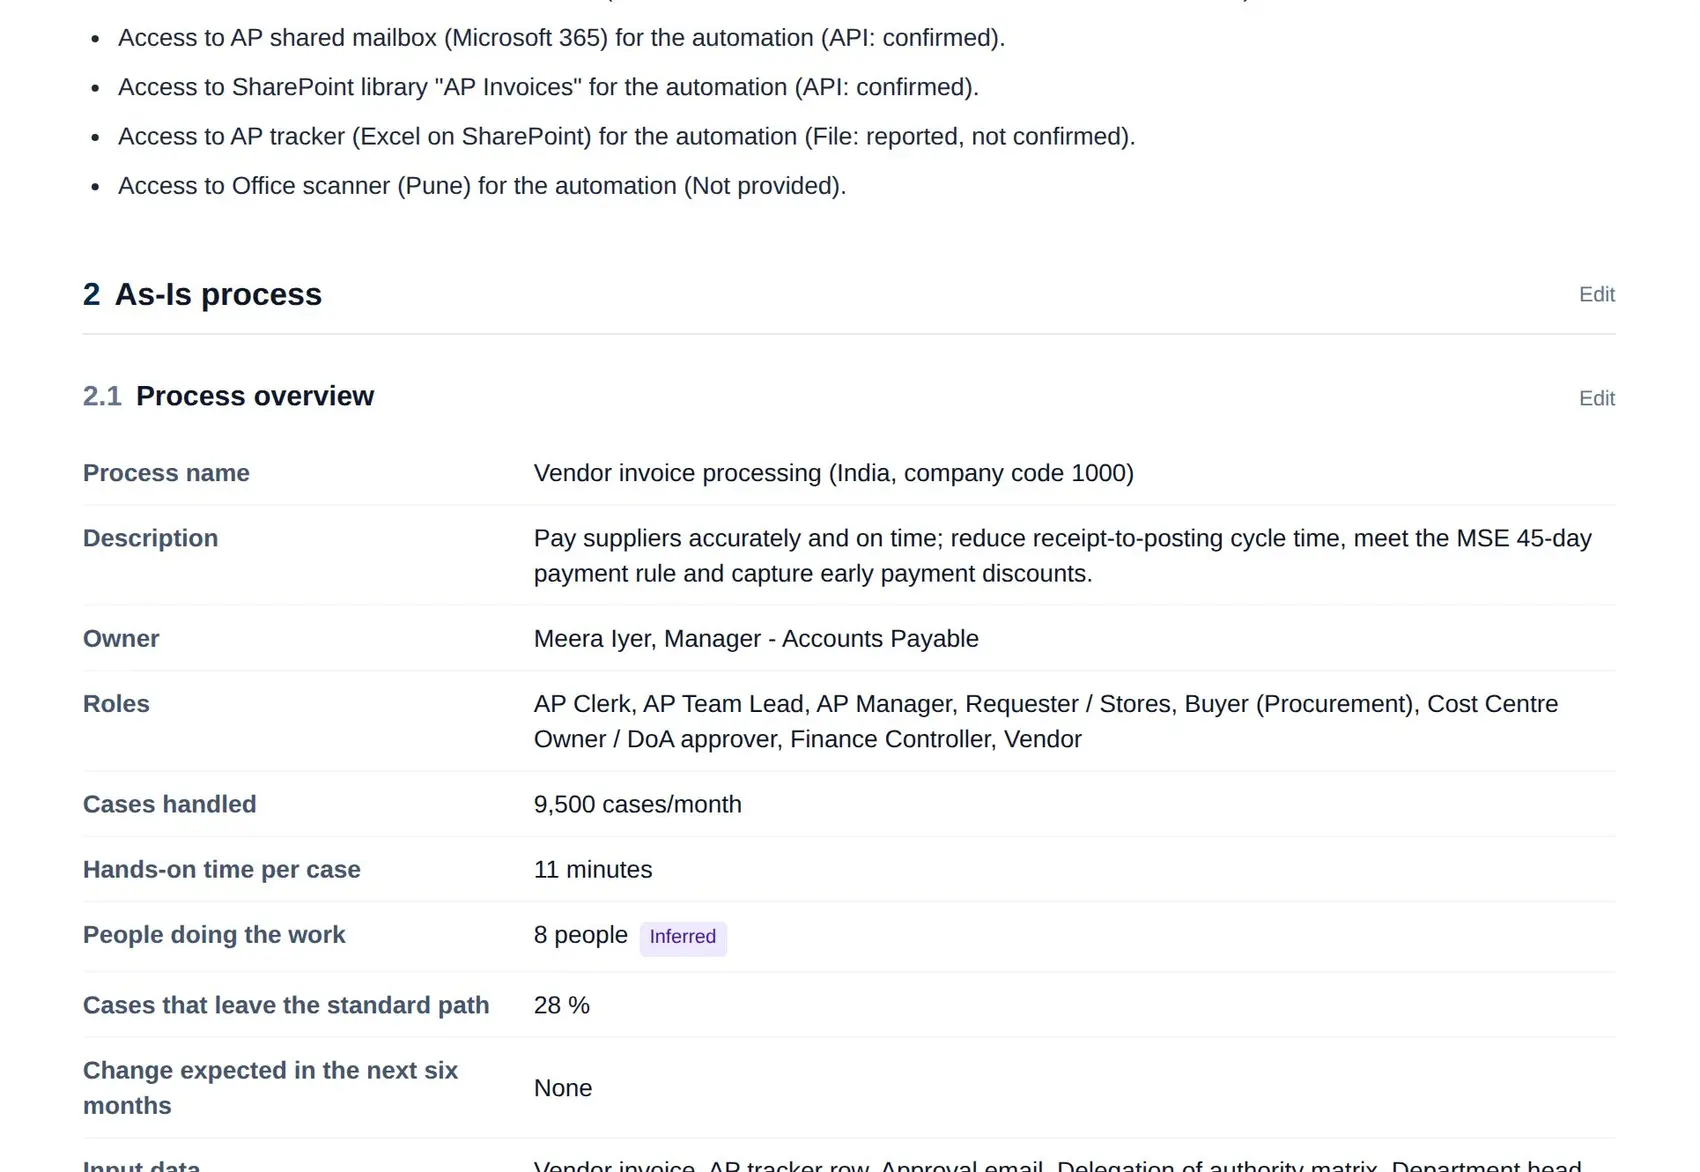
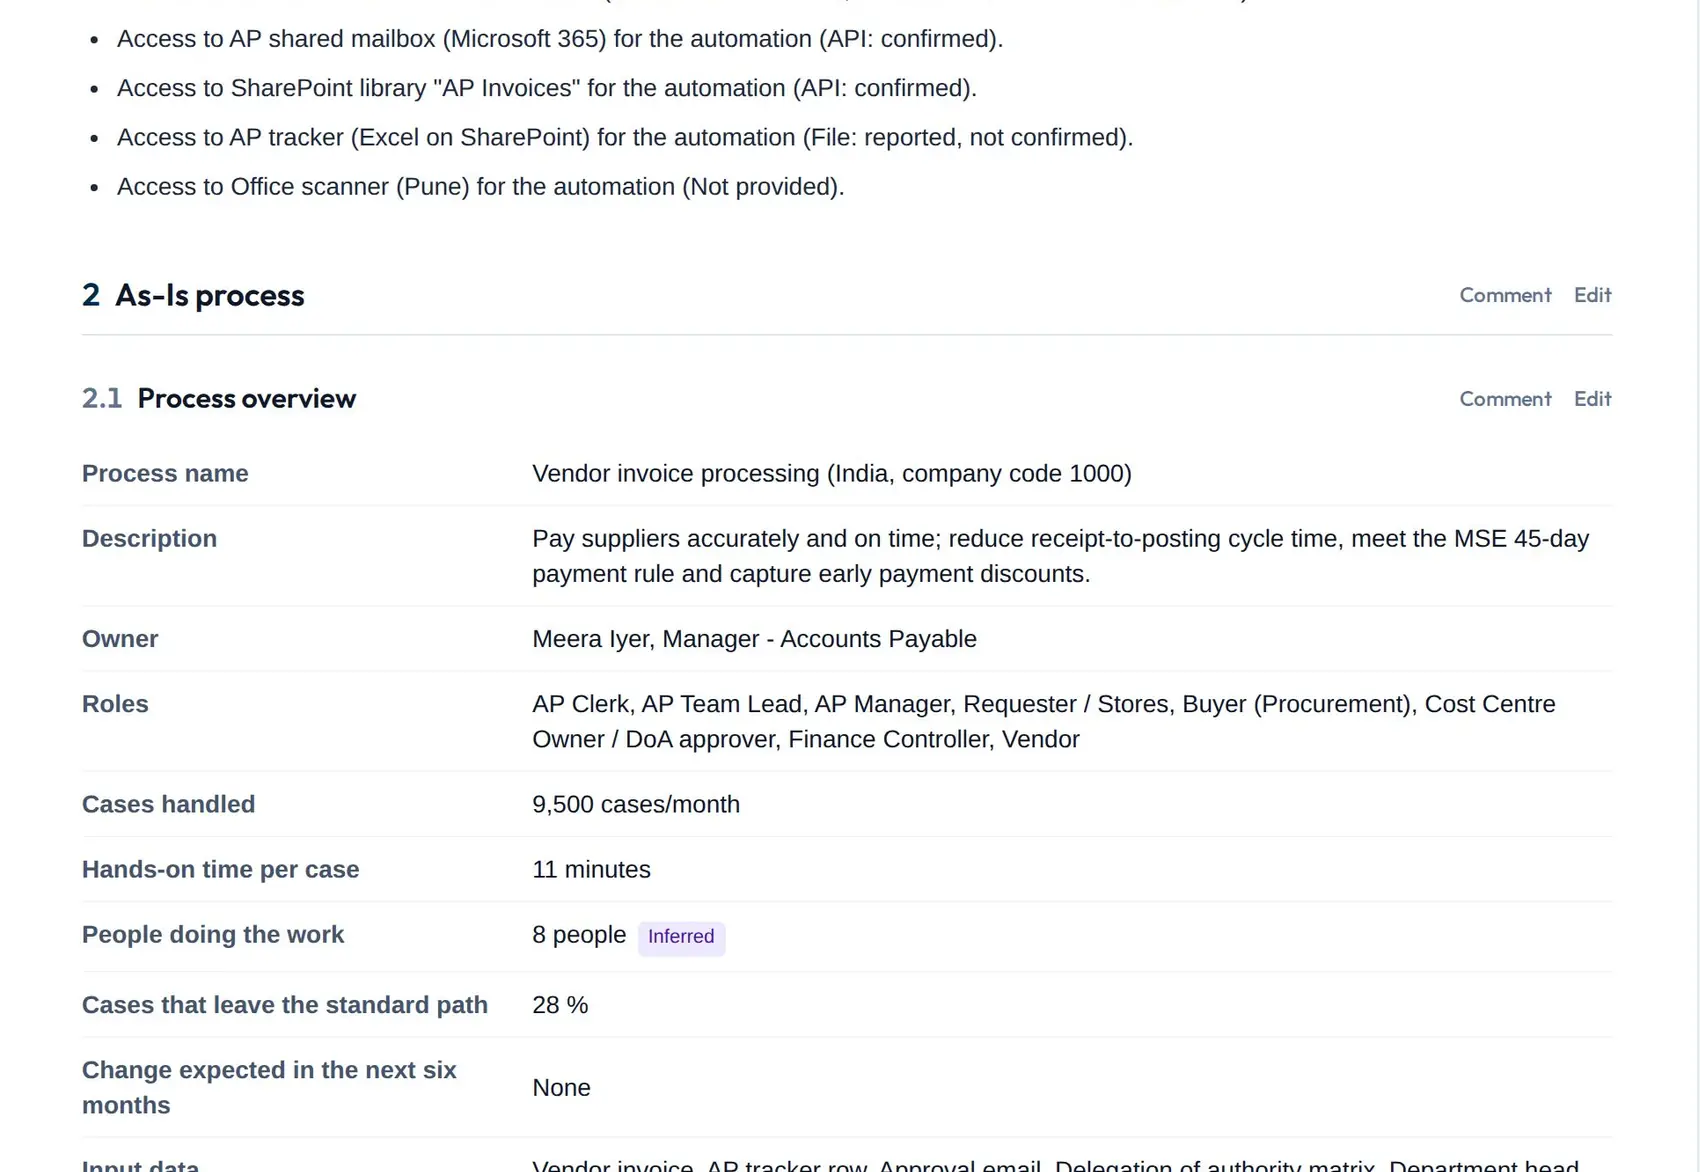
Homepage: retake the Ask Avala, split and document pictures that no longer matched the demo
ask: the recorded answer's sentence on API integration, and the demo's pointer
line behind it. motto-split: 5 steps move to API integration, not 9.
reason-facts: the document's Comment buttons. The other 13 pictures match.

Claude-Session: https://claude.ai/code/session_018NA3sCbBcmcEDjVq9DHf5c

diff --git a/AGENTS.md b/AGENTS.md
@@ -270,7 +270,7 @@ The mark is an A in five layers, one for each stage of the name (Assess, Validat
 
 `/` is the public homepage (`journey/home/HomePage.tsx`), loaded without the application or the database client; every other unknown path still goes to My work. A signed-in visitor (a Supabase session key in local storage) sees "Open my work" instead of "Sign in".
 
-Every screen on it is the product itself, not a mock-up. `tests/e2e/tour.spec.ts` runs the sample case (`eval/corpus/ap-invoice`, a made-up company; its hand-checked model stands in for extraction, which needs the server) through every stage and captures the screens; CI prints them in the browser job log on `claude/` branches. The sample's facts that only its people could give (SAP worked through its screens, rules written down, only invoice reading needs AI) are entered by that test in the product's own Inputs view, and its team is named on the process; the result the page quotes (RPA-led, 15 of 20 steps by rules, 1 needs AI, 4 stay with people) is what the product then computes, so update the page's wording if the sample or the scoring tables change. The walk also gives the sample its brief as its analyst would (done today, an existing process, nothing decided yet; the documents are left to the plan's rule), and records the stand-in for extraction in the history as an extraction three minutes after the first source, which is what the real extraction of these documents took on the live server on 12 November 2026, so the demo's "Effort so far" reads "3 minutes, read from the sources" and not "built by hand". To refresh the tour after the product's look changes, take the `tour-*.jpg` screens from that log and convert them into `public/marketing/tour/*.webp` (2000 px wide; the three `reason-*` images are crops; `motto-split` is `tour-assessment-why.jpg` cropped at 200, 776 to 2680, 1552 and resized to 1800 by 563; `ask` is `tour-ask.jpg`, taken by the walk on the demo's recorded answer, cropped at 1120, 0 to 2880, 1290 and resized to 1600 wide). All were retaken on 16 November 2026 except the three `reason-*` crops. Keep the claims on the page to what the product does, and keep the line that says the screens are a sample case.
+Every screen on it is the product itself, not a mock-up. `tests/e2e/tour.spec.ts` runs the sample case (`eval/corpus/ap-invoice`, a made-up company; its hand-checked model stands in for extraction, which needs the server) through every stage and captures the screens; CI prints them in the browser job log on `claude/` branches. The sample's facts that only its people could give (SAP worked through its screens, rules written down, only invoice reading needs AI) are entered by that test in the product's own Inputs view, and its team is named on the process; the result the page quotes (RPA-led, 15 of 20 steps by rules, 1 needs AI, 4 stay with people) is what the product then computes, so update the page's wording if the sample or the scoring tables change. The walk also gives the sample its brief as its analyst would (done today, an existing process, nothing decided yet; the documents are left to the plan's rule), and records the stand-in for extraction in the history as an extraction three minutes after the first source, which is what the real extraction of these documents took on the live server on 12 November 2026, so the demo's "Effort so far" reads "3 minutes, read from the sources" and not "built by hand". To refresh the tour after the product's look changes, take the `tour-*.jpg` screens from that log and convert them into `public/marketing/tour/*.webp` (2000 px wide; the three `reason-*` images are crops; `motto-split` is `tour-assessment-why.jpg` cropped at 200, 776 to 2680, 1552 and resized to 1800 by 563; `ask` is `tour-ask.jpg`, taken by the walk on the demo's recorded answer, cropped at 1120, 0 to 2880, 1290 and resized to 1600 wide). All were retaken on 16 November 2026 except the three `reason-*` crops; on 19 November 2026 every picture was compared with the preview's demo and three retaken (`ask`: the recorded answer's sentence on API integration and the demo's pointer line; `motto-split`: 5 steps move to API integration, not 9; `reason-facts`: the document's Comment buttons). The `reason-*` crops: `reason-score` is `tour-assessment-steps.jpg` resized to 75.5% and cropped at 140, 24, 1700 by 907; `reason-facts` is `tour-document-2.jpg` resized to 88% and cropped at 652, 108, 1700 by 1172; `reason-people` is `tour-audit.jpg` resized to 95% and cropped at 712, 688, 1700 by 963. The audit trail's dates (`audit`, `reason-people`) are the day of the walk and are not retaken for that alone. Keep the claims on the page to what the product does, and keep the line that says the screens are a sample case.
 
 The name is written "Avala OS", two words, everywhere (owner, 15 November 2026); a test keeps "AvalaOS" off the page. A buyer has one thing to ask for (owner, 16 November 2026, after two outside reviews of the page): "Book a walkthrough" in the bar, the opening and the close (`WALK`: opens the walkthrough request window, see Progress; still an email link to `CONTACT_EMAIL` with JavaScript off; the close also shows the address as text), beside "Try the live demo"; a signed-in visitor sees "Open my work" instead. A pilot follows from the walkthrough and is named only in the close. "Ask Avala, and check its answer" (`#ask`, `ASK_POINTS`) describes the assistant as it works: a source on every sentence, the open questions one at a time, suggestions a person confirms; it never says Ask Avala contacts anyone or writes on its own, because it does neither. Under the ways to start, `START_NOTES` says a client gets a workspace of its own and that Avala OS can be installed in a company's own cloud on request (the owner sells this; no such install has been done yet, so the page offers it and does not describe it). "Built by a practitioner" names no one (the owner's choice for now). The line under the opening says "Real product screens. A made-up sample case" with what went in and came out; the sample itself is told as four short facts under the split picture (`CASE`: what went in, 15 of the 20 scored steps by rules and one more the system already does, one step for AI, four with people). The contact address is `hello@avalaos.com` (`CONTACT_EMAIL` in `domain/site/trust.ts`: the footer, the pilot links, the legal pages and `security.txt`); the mailbox is with GoDaddy and its mail records go in Netlify DNS, where the domain's name servers are. Bring your own key (owner, 15 November 2026): the section keeps the heading "Your AI, your key" under the label "Bring your own AI key (BYOK)" (always "AI key", because BYOK alone also means a customer's own encryption key, which is not offered), sits right after Ask Avala, and says "to no other AI provider" (the record itself is stored with Avala OS, so the page never says the documents go "nowhere else"). The opening picture is always whole (owner, 16 November 2026, found on a 15.6 inch laptop where it ran past the window's edge and looked cut off): `.hero-shot` lets it grow past the text column only as far as the window has room, a test checks six widths, and a phone gets the product's own phone screen (`assessment-phone.webp`, taken by the walk at 390 wide) through `<picture>`; the tour and the two strips keep their zoom on a phone, because a whole desktop screen at phone width cannot be read. The opening carries three short lines (`HERO_FACTS`), each leading to the part of the page that shows it; there is no badge in the bar, and "Not every process needs AI." is a second headline in white with an amber bar, so the walkthrough button stays the one amber action. Above the headline one line says who the page is for ("For automation, analysis and delivery teams, and their consulting partners": widened on 17 November 2026 on the owner's yes, because analysts use the documents and maps and delivery teams the board), and the sentence under it says what a buyer gets; the opening no longer explains invitations. Not on the page, on purpose: provider names beyond `checked`, a promise about what a provider does with data, per-seat price comparisons.
 
